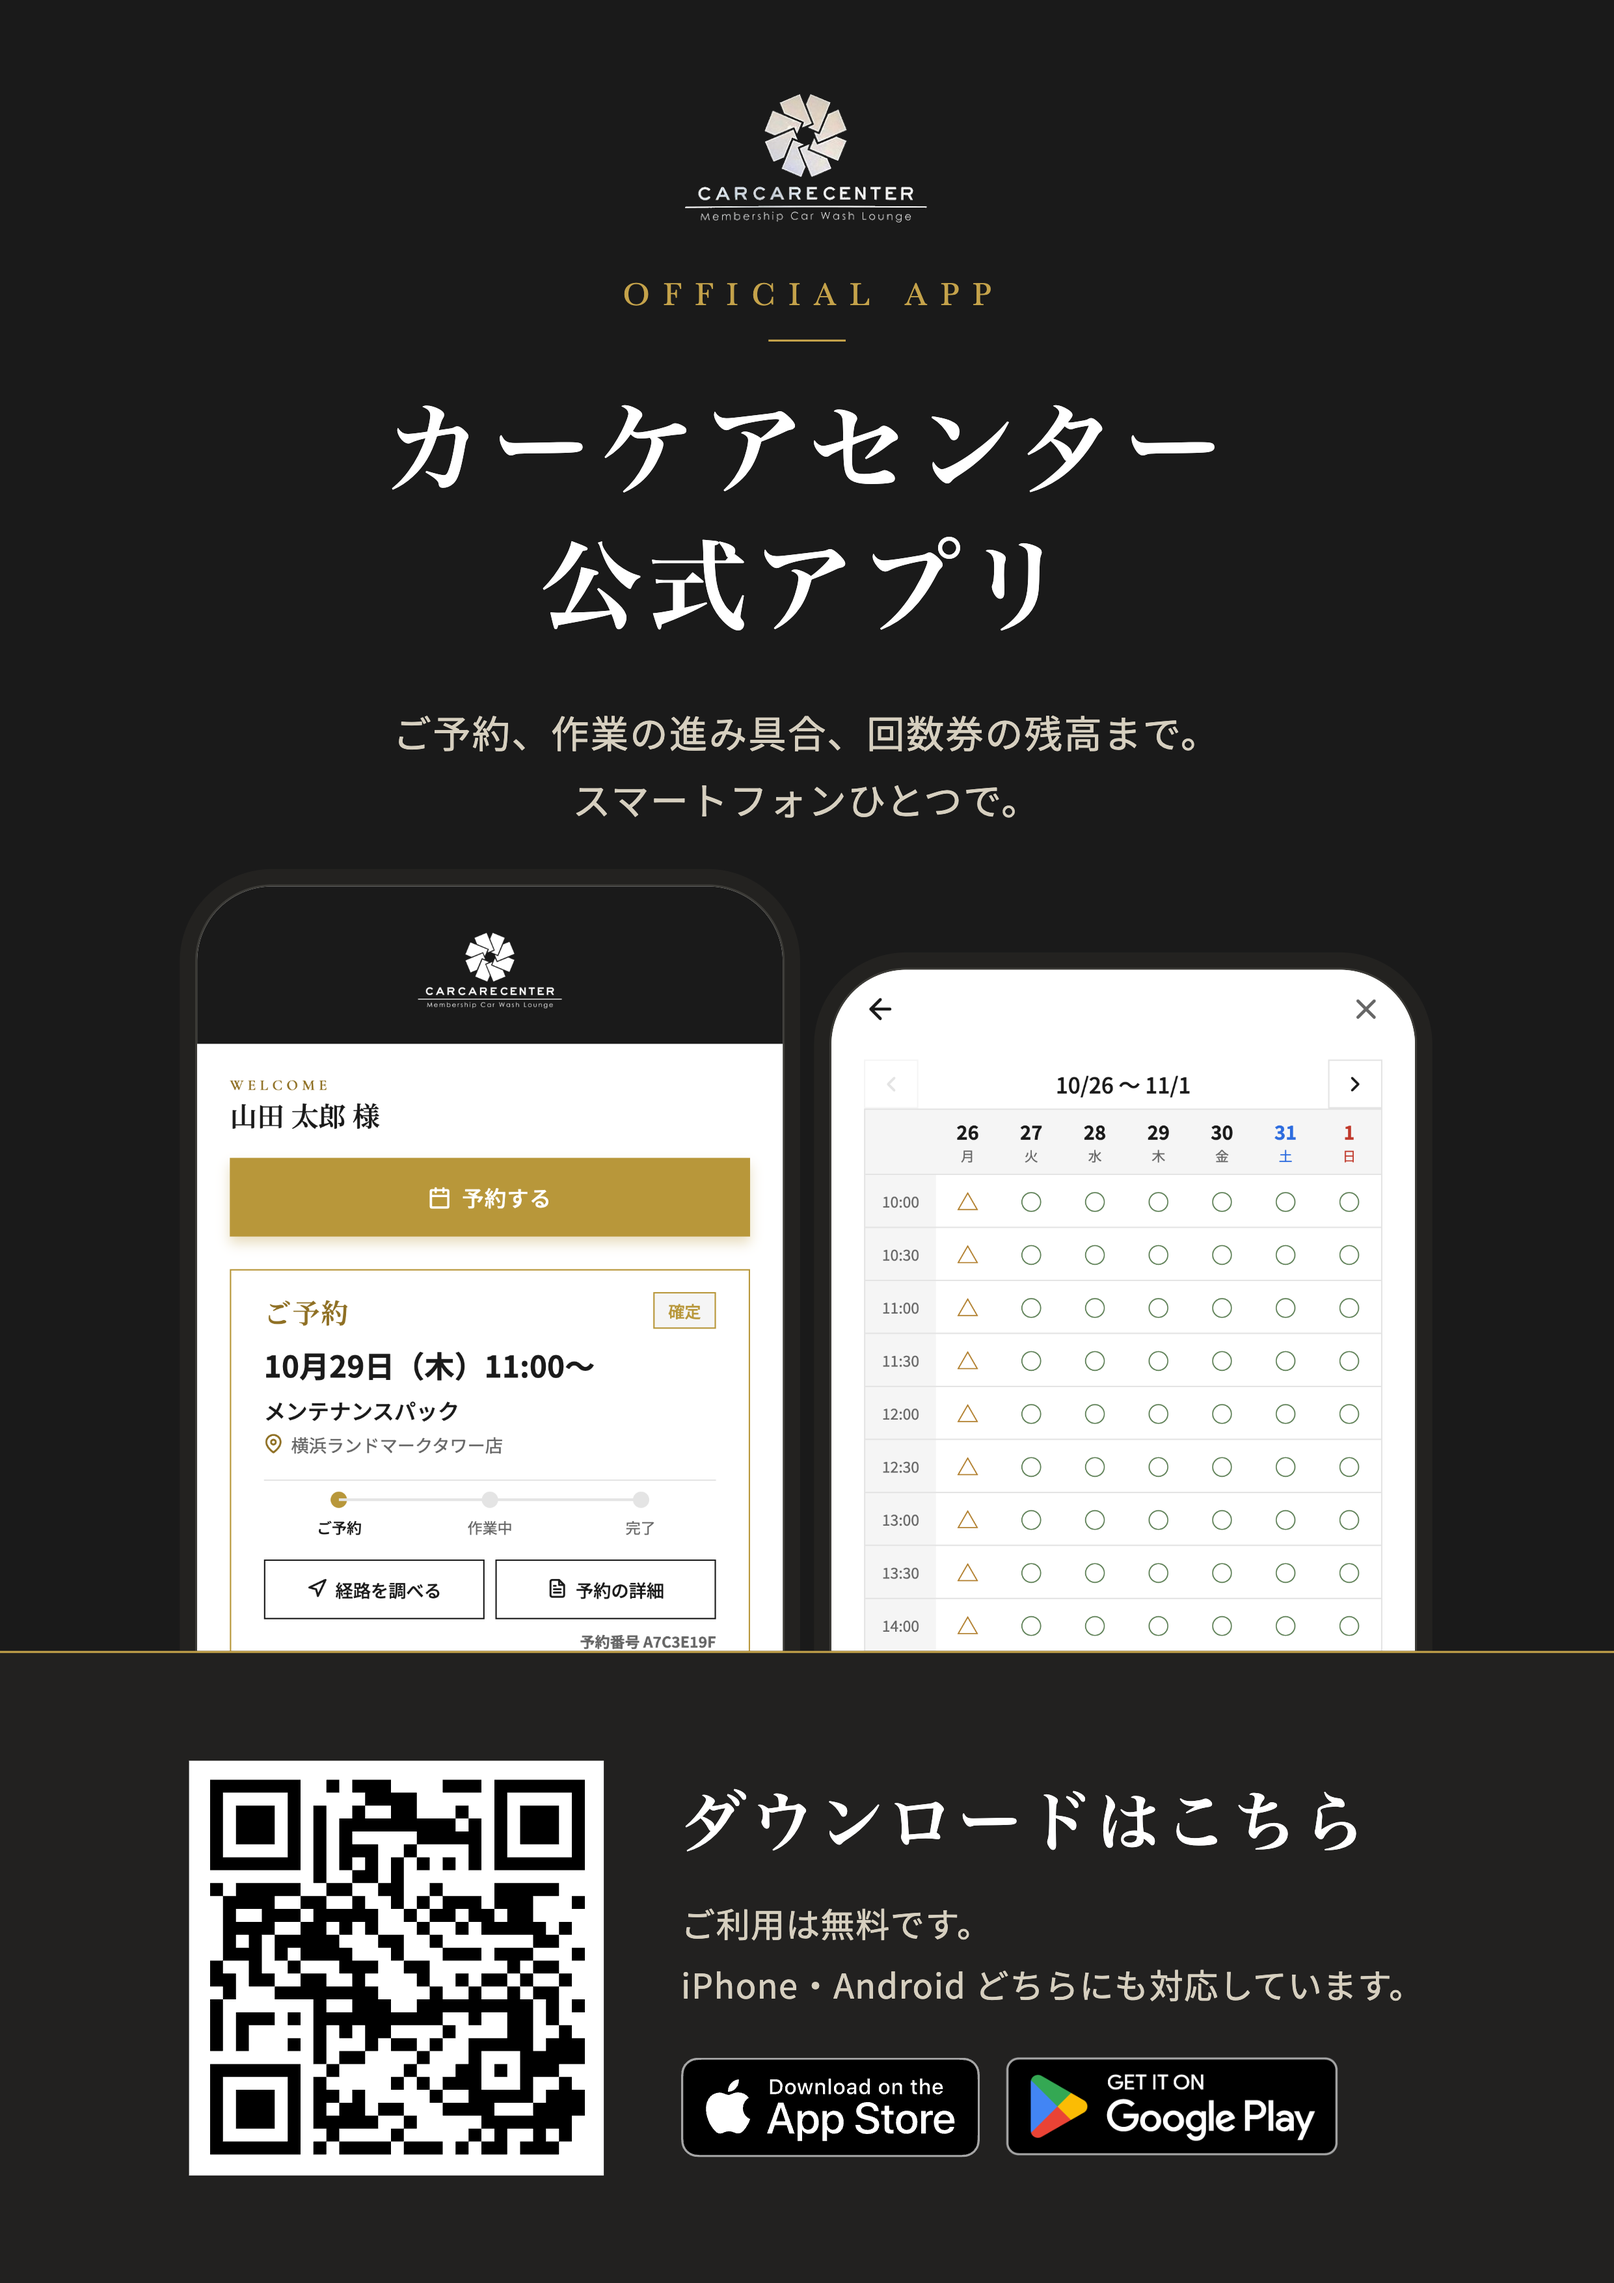
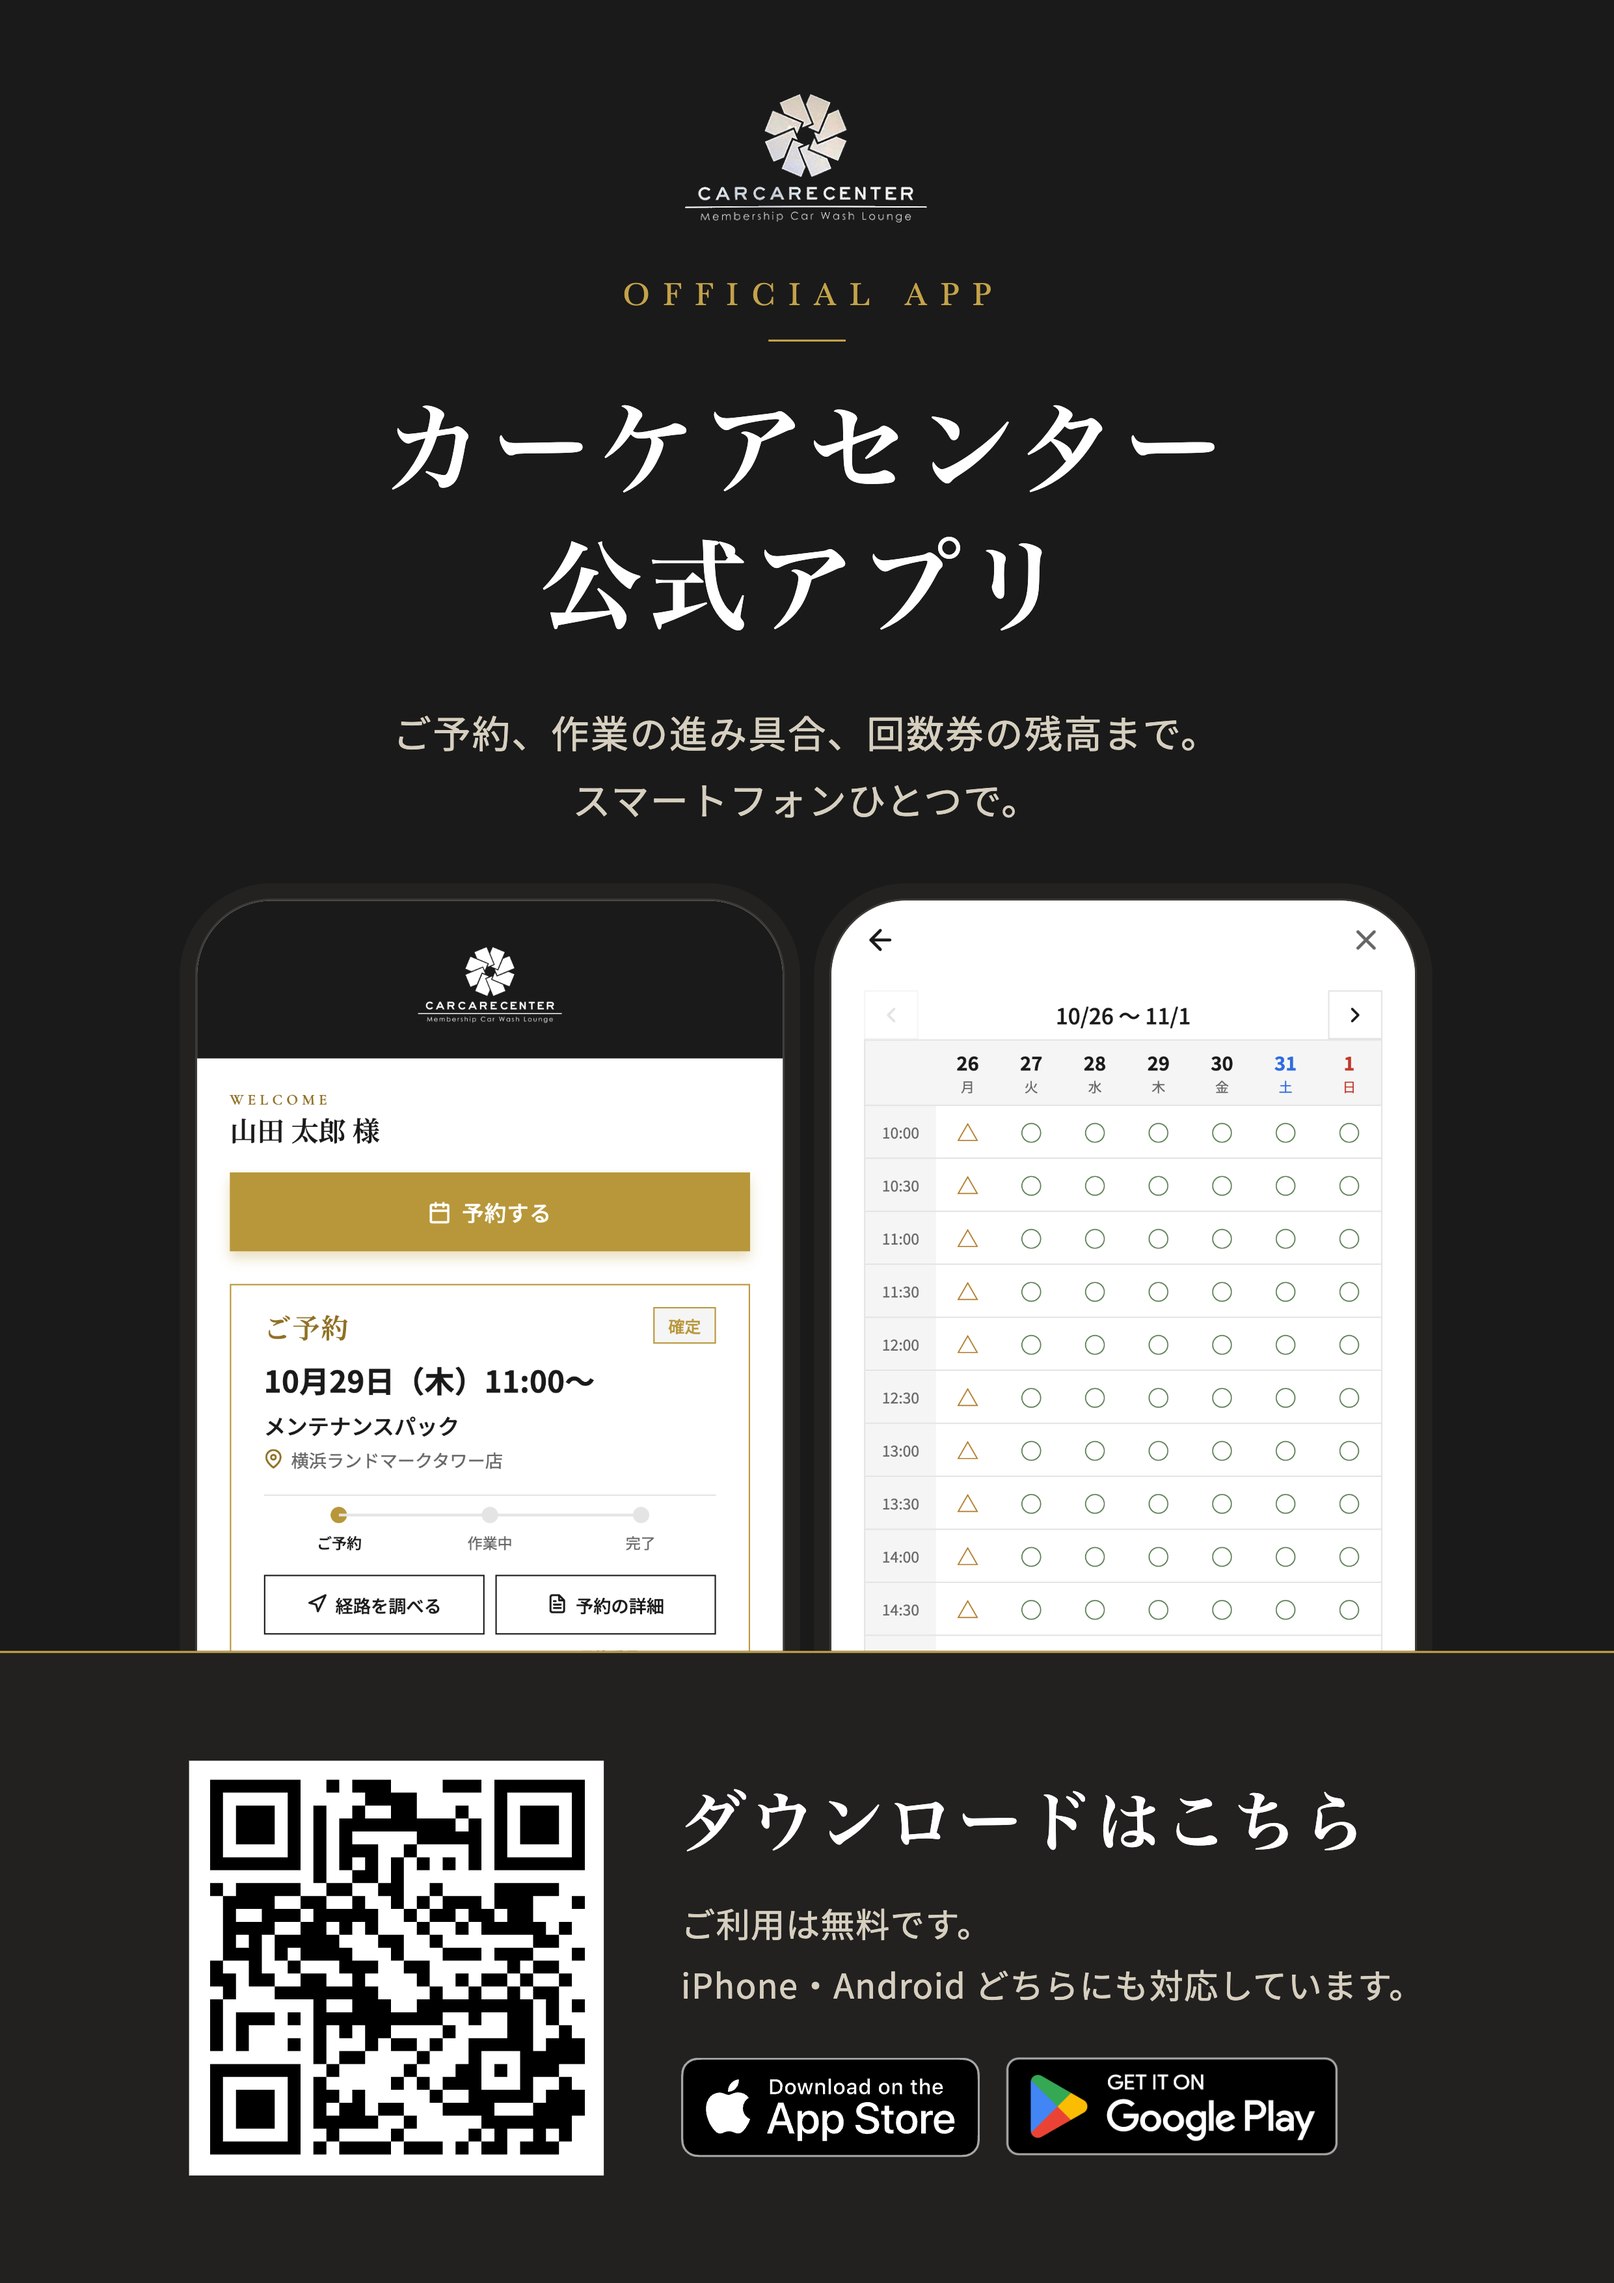
店頭ポスター：左右のスマホ画面の高さをそろえる

diff --git a/store/poster.html b/store/poster.html
@@ -23,8 +23,8 @@
   .phone { position:absolute; width:76mm; border-radius:10mm; overflow:hidden; background:#fff;
            border:.4mm solid var(--line); box-shadow:0 0 0 2mm #232220; }
   .phone img { display:block; width:100%; }
-  .phone--back { top:126mm; left:calc(50% + 3mm); }
-  .phone--front { top:115mm; right:calc(50% + 3mm); }
+  .phone--back { top:117mm; left:calc(50% + 3mm); }
+  .phone--front { top:117mm; right:calc(50% + 3mm); }
 
   .band { position:absolute; left:0; right:0; bottom:0; height:82mm; background:var(--band);
           border-top:.3mm solid var(--gold); display:flex; align-items:center; justify-content:center; gap:10mm; }
